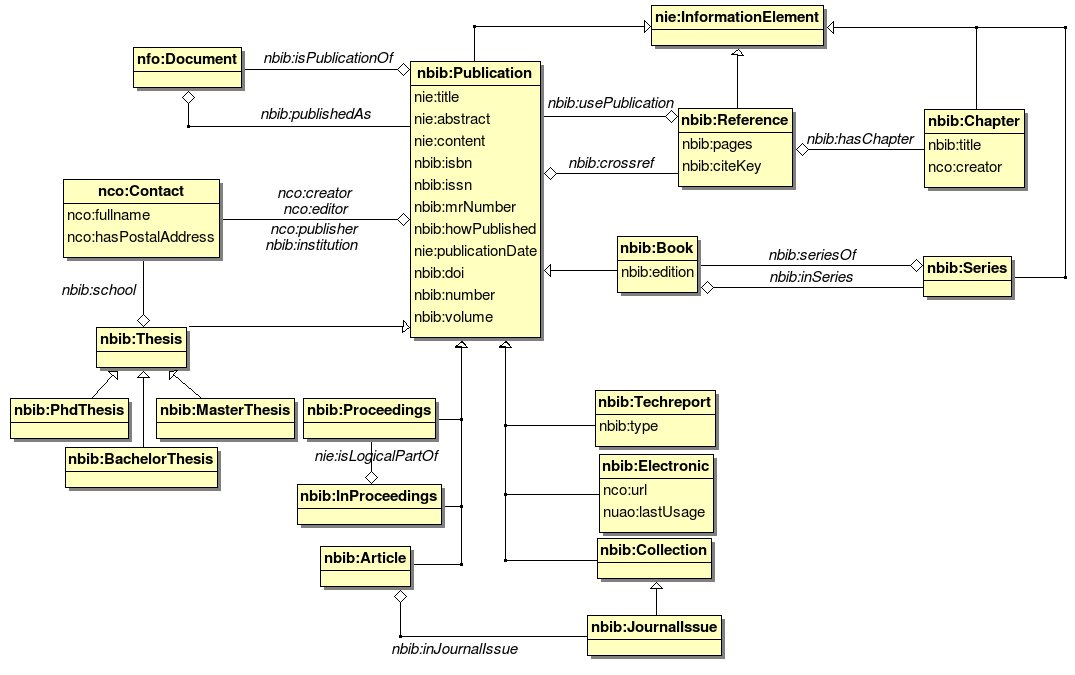
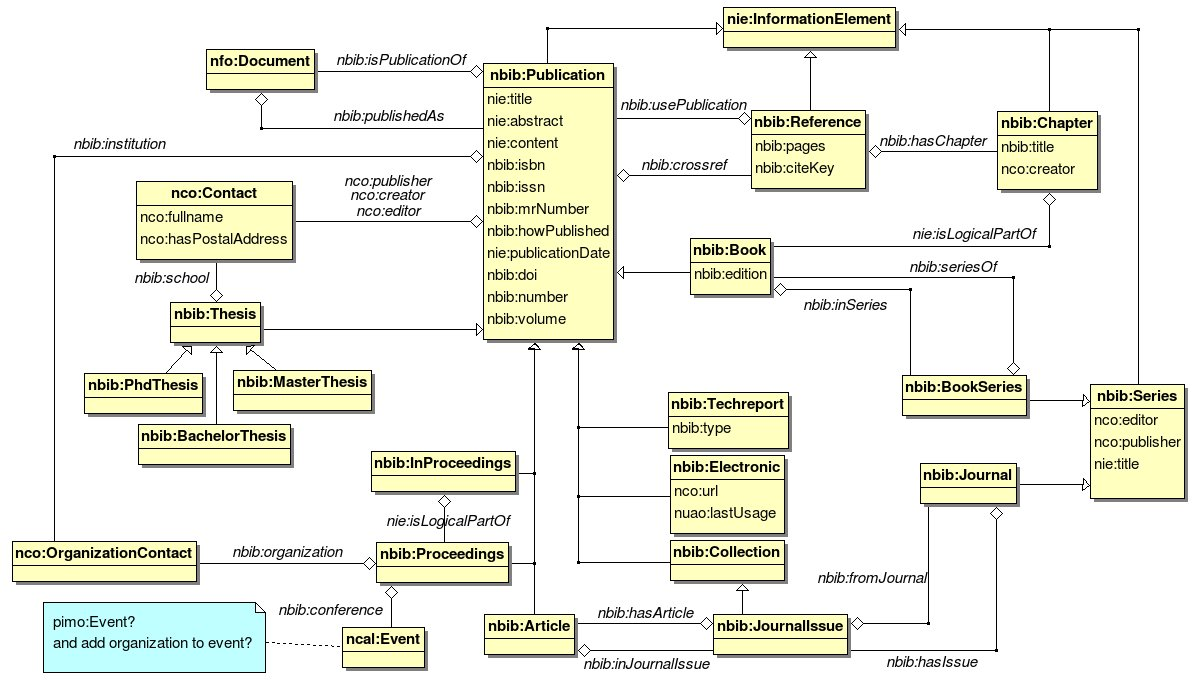
update the ontology

diff --git a/src/propertywidgets/journaledit.cpp b/src/propertywidgets/journaledit.cpp
@@ -22,12 +22,12 @@
 #include <Nepomuk/Variant>
 
 #include <QStandardItemModel>
+#include <QUrl>
 
 JournalEdit::JournalEdit(QWidget *parent)
     :PropertyEdit(parent)
 {
 }
-
 
 void JournalEdit::setupLabel()
 {
@@ -53,10 +53,21 @@ void JournalEdit::updateResource(const QString & text)
         resource().addProperty( propertyUrl(), Nepomuk::Resource(propUrl));
     }
     else {
-        // create a new journal with the string s as title
-        Nepomuk::Resource newJournal(propUrl, Nepomuk::Vocabulary::NBIB::JournalIssue());
+        // create a new journalisiue with the string s as journal title
+        Nepomuk::Resource newJournalIssue(QUrl(), Nepomuk::Vocabulary::NBIB::JournalIssue());
+        newJournalIssue.setProperty(Nepomuk::Vocabulary::NIE::title(), text);
+
+        Nepomuk::Resource newJournal(QUrl(), Nepomuk::Vocabulary::NBIB::Journal());
         newJournal.setProperty(Nepomuk::Vocabulary::NIE::title(), text);
-        resource().addProperty( propertyUrl(), newJournal);
+
+        // connect journal and journalIssue
+        newJournalIssue.setProperty(Nepomuk::Vocabulary::NBIB::fromJournal(), newJournal);
+        newJournal.addProperty(Nepomuk::Vocabulary::NBIB::hasIssue(), newJournalIssue);
+
+        resource().addProperty( propertyUrl(), newJournalIssue);
+
+        //connect article back to journal issue
+        newJournalIssue.addProperty(Nepomuk::Vocabulary::NBIB::hasArticle(), resource());
     }
 }
 

diff --git a/src/propertywidgets/volumenumberedit.cpp b/src/propertywidgets/volumenumberedit.cpp
@@ -48,20 +48,21 @@ void VolumeNumberEdit::setupLabel()
 
 void VolumeNumberEdit::updateResource(const QString & text)
 {
+    // the volume /number can eithe rbe attached directly to an nbib:Publication entity
+    // happens for techreport for example
+
+    // or it marks the volume/number of an Journalissue where an article was published in.
+
     // check if the resource has a journalissue attaced to it
     Nepomuk::Resource journalIssue = resource().property(Nepomuk::Vocabulary::NBIB::inJournalIssue()).toResource();
 
     if(journalIssue.isValid()) {
-        // remove all existing string entries of this property
-        journalIssue.removeProperty( propertyUrl() );
+        // in this case attach volume/number to the issue rather than the publication from resource()
 
-        journalIssue.addProperty(propertyUrl(), text);
+        journalIssue.setProperty(propertyUrl(), text);
     }
     else {
-        // remove all existing string entries of this property
-        resource().removeProperty( propertyUrl() );
-
-        resource().addProperty(propertyUrl(), text);
+        resource().setProperty(propertyUrl(), text);
     }
 }
 

diff --git a/src/propertywidgets/seriesedit.cpp b/src/propertywidgets/seriesedit.cpp
@@ -52,9 +52,12 @@ void SeriesEdit::updateResource(const QString & text)
     }
     else {
         // create a new series with the string s as title
-        Nepomuk::Resource newSeries(propUrl, Nepomuk::Vocabulary::NBIB::Series());
+        Nepomuk::Resource newSeries(propUrl, Nepomuk::Vocabulary::NBIB::BookSeries());
         newSeries.setProperty(Nepomuk::Vocabulary::NIE::title(), text);
         resource().addProperty( propertyUrl(), newSeries);
+
+        //add backlink
+        newSeries.setProperty(Nepomuk::Vocabulary::NBIB::seriesOf(), resource());
     }
 }
 
